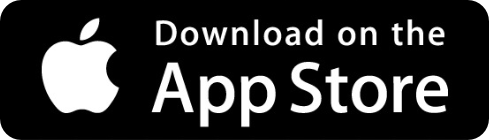
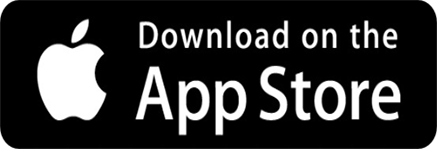
review push
images zelfde formaat gemaakt,
footer afgemaakt
svg images toegevoegd,
juiste kleuren

diff --git a/source/index.html b/source/index.html
@@ -8,6 +8,7 @@
     <link rel="stylesheet" href="https://stackpath.bootstrapcdn.com/bootstrap/4.4.1/css/bootstrap.min.css"
         integrity="sha384-Vkoo8x4CGsO3+Hhxv8T/Q5PaXtkKtu6ug5TOeNV6gBiFeWPGFN9MuhOf23Q9Ifjh" crossorigin="anonymous">
     <link rel="stylesheet" href="/source/css/style.css">
+    <link href="//maxcdn.bootstrapcdn.com/font-awesome/4.7.0/css/font-awesome.min.css" rel="stylesheet">
 </head>
 
 <body>
@@ -52,21 +53,21 @@
                     <div class="carousel-item">
                         <img class="d-block w-100" src="/source/img/hero_placeH_empty.png" alt="Slide 1">
                         <div class="carousel-caption  d-none d-md-block">
-                            <h1>poep1</h1>
+                            <h1>1</h1>
                             <h2>...</h2>
                         </div>
                     </div>
                     <div class="carousel-item">
                         <img class="d-block w-100" src="/source/img/hero_placeH_empty.png" alt="Slide 2">
                         <div class="carousel-caption d-none d-md-block">
-                            <h1>poep2</h1>
+                            <h1>2</h1>
                             <h2>...</h2>
                         </div>
                     </div>
                     <div class="carousel-item">
                         <img class="d-block w-100" src="/source/img/hero_placeH_empty.png" alt="Slide 3">
                         <div class="carousel-caption d-none d-md-block">
-                            <h1>poep3</h1>
+                            <h1>3</h1>
                             <h2>...</h2>
                         </div>
                     </div>
@@ -75,19 +76,19 @@
         </div> <!-- carousel-->
         <div class="container">
 
-            <div class="row mb-4 mt-4">
+            <div class="row mb-4 mt-4" style="margin: auto;">
                 <div class="col-sm">
-                    <img src="/source/img/rood_kruis_placeH.png" alt="" class="ml-5 mb-3">
+                    <img src="/source/img/rood_kruis_placeH.png" alt="" class="ml-3 mb-3" style="margin: auto;">
                     <h3 class="mr-5 extra-style-AmsterdamCross" style="text-align: center;">Help de Amsterdamse horeca
                         door de crisis</h3>
                 </div>
                 <div class="col-sm">
-                    <img src="/source/img/rood_kruis_placeH.png" alt="" class="ml-5 mb-3">
+                    <img src="/source/img/rood_kruis_placeH.png" alt="" class="ml-3 mb-3">
                     <h3 class="mr-5 extra-style-AmsterdamCross" style="text-align: center;">Bestel hoogwaardige
                         ingrediënten</h3>
                 </div>
                 <div class="col-sm">
-                    <img src="/source/img/rood_kruis_placeH.png" alt="" class="ml-5 mb-3">
+                    <img src="/source/img/rood_kruis_placeH.png" alt="" class="ml-3 mb-3">
                     <h3 class="mr-5 extra-style-AmsterdamCross" style="text-align: center;">Geselecteerd door echte
                         Amsterdamse top chefs</h3>
                 </div>
@@ -95,12 +96,12 @@
         </div>
 
     </header>
-    <div class="container-fluid bg-light">
+    <div class="container-fluid bg-light pb-4">
         <div class="container">
             <section class="media mb-4">
                 <div class="container mt-3">
                     <div class="row">
-                        <div class="col-sm">
+                        <div class="col-sm ml-5 mr-5">
                             <div id="carouselExampleIndicators" class="carousel slide" data-ride="carousel">
                                 <ol class="carousel-indicators">
                                     <li data-target="#carouselExampleIndicators" class="circle_indicator"
@@ -164,7 +165,7 @@
         </div> <!-- container-->
     </div>
     <!--container Fluid-->
-    <div class="container-fluid">
+    <div class="container-fluid pb-4">
         <div class="container">
             <section class="media mb-4">
                 <div class="container mt-3">
@@ -179,7 +180,7 @@
                             </p>
                             <button type="button" href="#" class="btn extra-style-red btn-sm">Krijg toegang</button>
                         </div>
-                        <div class="col-sm">
+                        <div class="col-sm ml-5 mr-5">
                             <div id="carouselExampleIndicators" class="carousel slide" data-ride="carousel">
                                 <ol class="carousel-indicators">
                                     <li data-target="#carouselExampleIndicators" class="circle_indicator"
@@ -232,14 +233,14 @@
             </section>
             <!--sectie-->
         </div> <!-- container-->
-    </div> 
+    </div>
     <!--container Fluid-->
-    <div class="container-fluid bg-light">
+    <div class="container-fluid bg-light pb-4">
         <div class="container">
             <section class="media mb-4">
                 <div class="container mt-3">
                     <div class="row">
-                        <div class="col-sm">
+                        <div class="col-sm ml-5 mr-5">
                             <div id="carouselExampleIndicators" class="carousel slide" data-ride="carousel">
                                 <ol class="carousel-indicators">
                                     <li data-target="#carouselExampleIndicators" class="circle_indicator"
@@ -255,7 +256,7 @@
                                     </li>
                                 </ol>
                                 <div class="carousel-inner">
-                                    <div class="carousel-item active flex ">
+                                    <div class="carousel-item active flex">
                                         <img class="d-block w-100" src="/source/img/fotoVerticaal_placeH.png"
                                             alt="Slide 0">
                                         <div class="carousel-caption ">
@@ -303,16 +304,39 @@
         </div> <!-- container-->
     </div>
     <!--container Fluid-->
-        <div class="container-fluid extra-style-store">
-            <div class="container">
-                <img src="/source/img/" alt="">
+    <div class="container-fluid extra-style-store">
+        <div class="container">
+            <div class="row">
+                <img src="/source/img/headerLogo_placeH.png" class="extra-style-logos" alt="">
             </div>
+            <div class="row storelogos">
+                <img src="/source/img/appStore_IOS_placeH.png" class="extra-style-storelogos" alt="">
+                <img src="/source/img/play_Google_placeH.png" class="extra-style-storelogos" alt="">
+            </div>
+        </div>
     </div>
 
-    <footer class="page-footer font-small extra-style-red pt-4">
+    <footer class="page-footer style-footer pt-4">
         <div class="container-fluid text-center text-md-left">
-            <div class="col-md-6 mt-md-0 mt-3">
-                <a href="tel:020244088" class="btn extra-style-red btn-xlg">020 244 088</a>
+            <div class="row">
+                <div class="col-md- mb-md-1 ml-2">
+                    <a href="tel:020244088" class="extra-style-footer">020 244 088</a><br />
+                    <a href="mailto:support@foodmarketamsterdam.nl"
+                        class="extra-style-footer">support@foodmarketamsterdam.nl</a>
+                </div>
+                <div class="col-md-5 mb-md-1 ml-2 mb-3">
+                    <p class="extra-style-footer">Jan van Galenstraat 4</p>
+                    <p class="extra-style-footer">1051 KM Amsterdam</p>
+                </div>
+                <div class="col-md-2 mb-md-1 ml-2 mb-3">
+                    <p class="extra-style-footer">we houden je op</p>
+                    <p class="extra-style-footer">de hoogte via</p>
+                </div>
+                <div class="col-md-2 mb-md-1 mb-3">
+                <a href="#"><svg xmlns="http://www.w3.org/2000/svg" xmlns:xlink="http://www.w3.org/1999/xlink" viewBox="0 0 44 44" enable-background="new 0 0 44 44"><defs><path id="a" d="M0 0h44v44H0z"/></defs><clipPath id="b"><use xlink:href="#a" overflow="visible"/></clipPath><path clip-path="url(#b)" stroke="#fff" d="M22 43.5c11.9 0 21.5-9.6 21.5-21.5S33.9.5 22 .5.5 10.1.5 22 10.1 43.5 22 43.5z" fill="none"/><path clip-path="url(#b)" fill="#fff" d="M17.8 34.6V22h-3.3v-4.5h3.3v-3.9c0-3 2-5.8 6.5-5.8 1.8 0 3.2.2 3.2.2l-.1 4.2h-2.9c-1.6 0-1.9.8-1.9 2v3.3h4.9l-.2 4.5h-4.7v12.5h-4.8z"/></svg></a>
+                <a href="#"><svg xmlns="http://www.w3.org/2000/svg" xmlns:xlink="http://www.w3.org/1999/xlink" viewBox="0 0 44 44" enable-background="new 0 0 44 44"><defs><path id="a" d="M0 0h44v44H0z"/></defs><clipPath id="b"><use xlink:href="#a" overflow="visible"/></clipPath><path clip-path="url(#b)" stroke="#fff" d="M22 43.5c11.9 0 21.5-9.6 21.5-21.5S33.9.5 22 .5.5 10.1.5 22 10.1 43.5 22 43.5z" fill="none"/><path clip-path="url(#b)" fill="#fff" d="M10.2 30.5c2.8.2 5.3-.5 7.7-2.2-2.5-.3-4.1-1.5-5-3.8h2.2c-2.5-1-3.9-2.7-4.1-5.4.8.2 1.5.4 2.2.6 0-.1.1-.1.1-.2-1.3-1-2-2.3-2.2-3.9-.1-1.1.1-2.1.7-3.1 2.9 3.4 6.6 5.3 11.1 5.6 0-.8-.1-1.5 0-2.2.4-2 1.6-3.4 3.6-4.1 1.9-.7 3.7-.3 5.3 1.1.3.2.5.4.9.2l2.4-.9c.1 0 .2-.1.4-.2-.4 1.2-1.1 2.1-2 2.9.4-.1.9-.2 1.3-.3.4-.1.9-.3 1.4-.5-.6.9-1.2 1.6-2 2.2-.4.3-.6.7-.6 1.2-.2 5.6-2.5 10.1-7.3 13.1-2.8 1.8-6 2.4-9.4 2.1-2.3-.2-4.5-.9-6.4-2.1-.1 0-.1-.1-.2-.1-.1.1-.1.1-.1 0"/></svg></a>
+                <a href="#"><svg viewBox="0 0 44 44" xmlns="http://www.w3.org/2000/svg" fill-rule="evenodd" clip-rule="evenodd"><path d="M22 43.5c11.9 0 21.5-9.6 21.5-21.5S33.9.5 22 .5.5 10.1.5 22 10.1 43.5 22 43.5z" stroke="#fff" fill="none"/><path d="M25.95 11.47h-7.9c-3.633 0-6.58 2.947-6.58 6.58v7.9c0 3.633 2.946 6.58 6.58 6.58h7.9c3.633 0 6.58-2.946 6.58-6.58v-7.9c0-3.633-2.947-6.58-6.58-6.58zm4.606 14.48c0 2.54-2.067 4.606-4.607 4.606h-7.9c-2.54 0-4.606-2.067-4.606-4.607v-7.9c0-2.54 2.067-4.606 4.607-4.606h7.9c2.54 0 4.606 2.066 4.606 4.607v7.9zM22 16.735c-2.908 0-5.265 2.357-5.265 5.265 0 2.908 2.357 5.265 5.265 5.265 2.907 0 5.265-2.357 5.265-5.265 0-2.908-2.357-5.265-5.265-5.265zm0 8.556c-1.814 0-3.29-1.476-3.29-3.29 0-1.815 1.476-3.29 3.29-3.29s3.29 1.474 3.29 3.29c0 1.814-1.476 3.29-3.29 3.29z" fill="#fff"/><circle cx="27.66" cy="16.34" r=".702" fill="#fff"/></svg></a>
+                </div>
             </div>
         </div>
 

diff --git a/source/css/style.css b/source/css/style.css
@@ -12,15 +12,20 @@ h1, h2, h3, h4, h5, button {
     font-family: 'VLNL-Berlagebrug-Gietijzer';
     color: #231e1e;
 }
-
-a, p, li {
+a {
+    color: white;
+    font-family: 'Avenir';
+    margin: 0;
+    padding: 0;
+}
+p, li {
     font-family: 'Avenir';
     color: #5a5a5a;
     font-size: 1.5rem;
 }
-
 .extra-style-AmsterdamCross {
     text-align: center;
+    width: 60%;
     color: #6e0f0a;
 }
 
@@ -28,9 +33,39 @@ a, p, li {
     background: #ff2d0a;
     color: white;
     padding: 15px;
+    font-size: 1.1rem;
+    border-radius: 8px;
 }
 .extra-style-store {
-    background: #5a5a5a;
+    background: #d7e0e5;
+    padding: 5%;
+}
+.extra-style-logos {
+    width: 25%;
+    margin: auto auto;
+    background: white;
+    padding: 5%;
+    border-radius: 15%;
+}
+.storelogos {
+    margin: auto auto;
+    width: 60%;
+    justify-content: space-around;
+}
+.extra-style-storelogos {
+    width: 40%;
+    margin-top: 5%
+}
+.style-footer {
+    background: #ff2d0a;
+    padding-bottom: 1%;
+    padding-top:2;
+}
+.extra-style-footer {
+    color: white;
+    text-decoration: none;
+    font-size: 1.1rem;
+    margin: 0;
 }
 .circle_indicator {
     border-radius: 100%;
@@ -38,7 +73,10 @@ a, p, li {
     height: 20px !important;
     background-color: #231e1e !important;
 }
-
+svg {
+    width: 25%;
+    margin-right: 1%!important;
+}
 .carousel-caption {
     top: 50%;
     bottom: auto;
